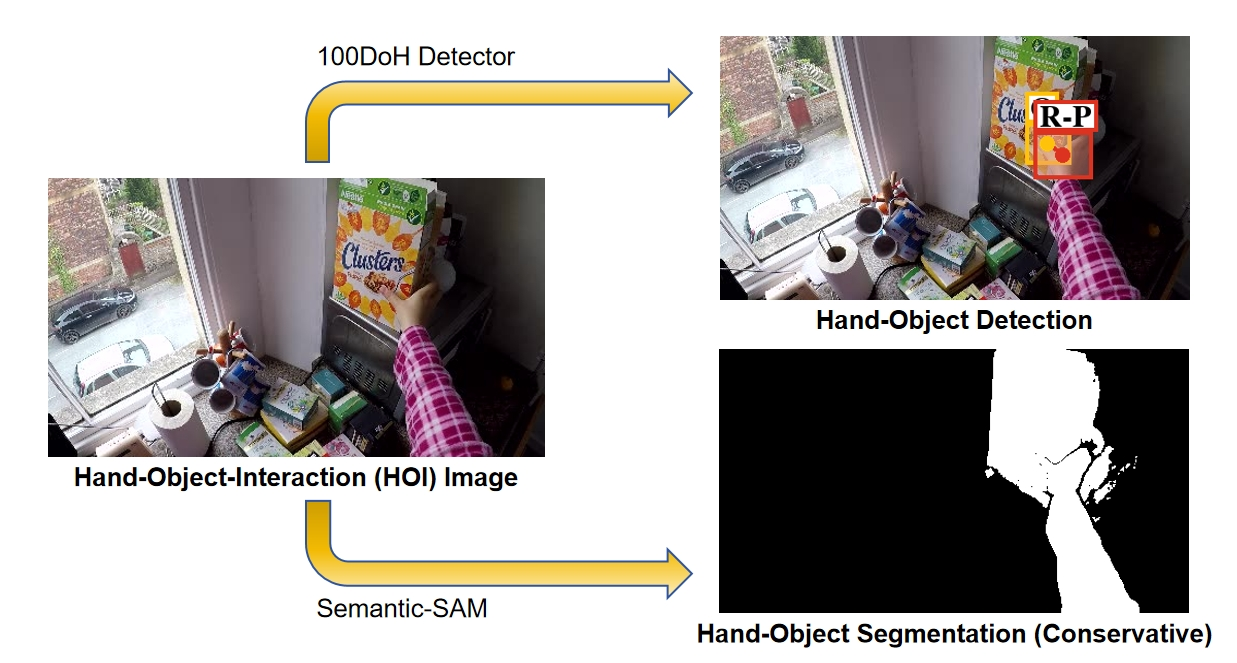
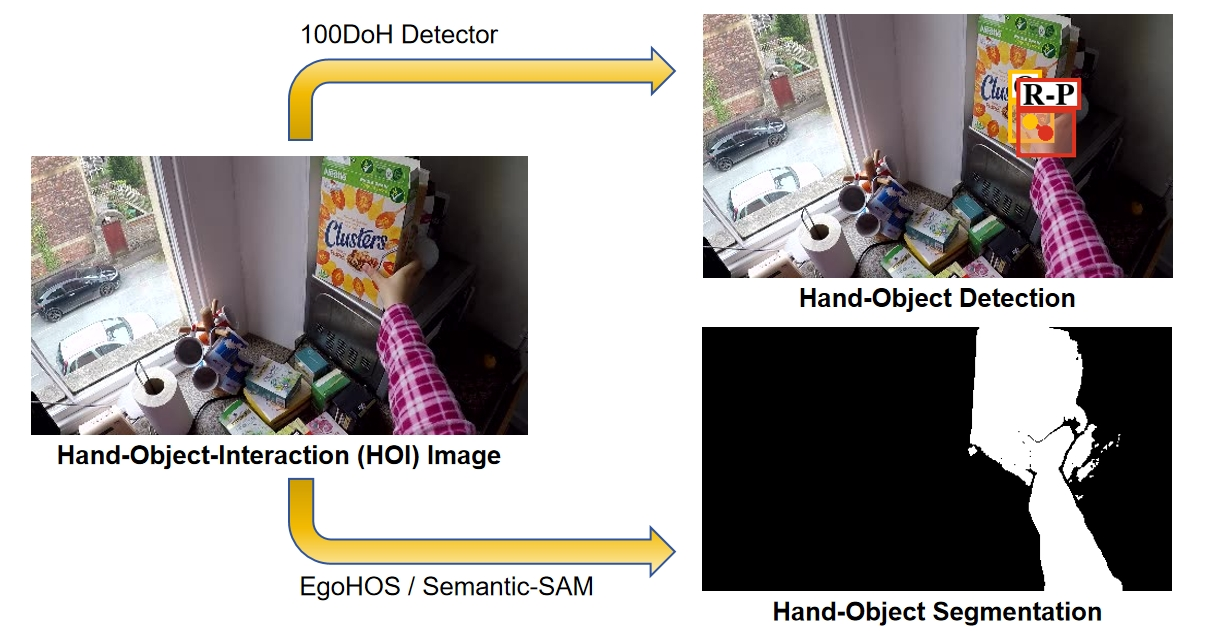
add egohos

Changed region(s): [[0.0, 0.0, 0.9984, 0.9937], [0.8112, 0.6624, 0.9048, 0.813], [0.78, 0.6926, 0.8112, 0.7227]]

diff --git a/ego_hos_wrapper.py b/ego_hos_wrapper.py
@@ -1,0 +1,125 @@
+from mmseg.apis import inference_segmentor, init_segmentor
+import mmcv
+import glob
+import os
+from tqdm import tqdm
+import argparse
+import copy
+import shutil
+from PIL import Image
+import numpy as np 
+from skimage.io import imsave
+import pdb
+
+def visualize_twohands(img, seg_result, alpha = 0.4):
+    seg_color = np.zeros((img.shape))
+    seg_color[seg_result == 0] = (0,    0,   0)     # background
+    seg_color[seg_result == 1] = (255,  0,   0)     # left_hand
+    seg_color[seg_result == 2] = (0,    0,   255)   # right_hand
+    vis = img * (1 - alpha) + seg_color * alpha
+    return vis
+
+def visualize_cb(img, seg_result, alpha = 0.4):
+    seg_color = np.zeros((img.shape))
+    seg_color[seg_result == 0] = (0,    0,   0)     # background
+    seg_color[seg_result == 1] = (255,  0,   0)     # contact 
+    vis = img * (1 - alpha) + seg_color * alpha
+    return vis
+
+def visualize_twohands_obj1(img, seg_result, alpha = 0.4):
+    seg_color = np.zeros((img.shape))
+    seg_color[seg_result == 0] = (0,    0,   0)     # background
+    seg_color[seg_result == 1] = (255,  0,   0)     # left_hand
+    seg_color[seg_result == 2] = (0,    0,   255)   # right_hand
+    seg_color[seg_result == 3] = (255,  0,   255)   # left_object1
+    seg_color[seg_result == 4] = (0,    255, 255)   # right_object1
+    seg_color[seg_result == 5] = (0,    255, 0)     # two_object1
+    vis = img * (1 - alpha) + seg_color * alpha
+    return vis
+
+def visualize_twohands_obj2(img, seg_result, alpha = 0.4):
+    seg_color = np.zeros((img.shape))
+    seg_color[seg_result == 0] = (0,    0,   0)     # background
+    seg_color[seg_result == 1] = (255,  0,   0)     # left_hand
+    seg_color[seg_result == 2] = (0,    0,   255)   # right_hand
+    seg_color[seg_result == 3] = (255,  0,   255)   # left_object1
+    seg_color[seg_result == 4] = (0,    255, 255)   # right_object1
+    seg_color[seg_result == 5] = (0,    255, 0)     # two_object1
+    seg_color[seg_result == 6] = (255,  204, 255)   # left_object2
+    seg_color[seg_result == 7] = (204,  255, 255)   # right_object2
+    seg_color[seg_result == 8] = (204,  255, 204)   # two_object2
+    vis = img * (1 - alpha) + seg_color * alpha
+    return vis
+
+
+
+class EgoHOSWrapper:
+
+    def __init__(self, 
+                 cache_path,
+                 repo_path='.',
+                 two_hands_cfg='EgoHOS/mmsegmentation/work_dirs/seg_twohands_ccda/seg_twohands_ccda.py',
+                 cb_cfg='EgoHOS/mmsegmentation/work_dirs/twohands_to_cb_ccda/twohands_to_cb_ccda.py',
+                 obj2_cfg='EgoHOS/mmsegmentation/work_dirs/twohands_cb_to_obj2_ccda/twohands_cb_to_obj2_ccda.py',
+                 two_hands_ckpt='EgoHOS/mmsegmentation/work_dirs/seg_twohands_ccda/best_mIoU_iter_56000.pth',
+                 cb_ckpt='EgoHOS/mmsegmentation/work_dirs/twohands_to_cb_ccda/best_mIoU_iter_76000.pth',
+                 obj2_ckpt='EgoHOS/mmsegmentation/work_dirs/twohands_cb_to_obj2_ccda/best_mIoU_iter_32000.pth',
+                 device='cuda'
+                 ):
+        if not cache_path.startswith('/'):
+            raise ValueError("Please use the absolute file path as the cache path.")
+        self.cache_path = cache_path
+        two_hands_cfg = repo_path + '/' + two_hands_cfg
+        cb_cfg = repo_path + '/' + cb_cfg
+        obj2_cfg  = repo_path + '/' + obj2_cfg
+        two_hands_ckpt = repo_path + '/' + two_hands_ckpt
+        cb_ckpt = repo_path + '/' + cb_ckpt
+        obj2_ckpt = repo_path + '/' + obj2_ckpt
+        self.two_hands_cfg = two_hands_cfg
+        self.two_hands_ckpt = two_hands_ckpt
+        self.cb_cfg = cb_cfg
+        self.cb_ckpt = cb_ckpt
+        self.obj2_cfg = obj2_cfg
+        self.obj2_ckpt = obj2_ckpt
+        self.device = device 
+
+        self.hand_model = init_segmentor(self.two_hands_cfg, self.two_hands_ckpt, device=device)
+        self.cb_model = init_segmentor(self.cb_cfg, self.cb_ckpt, device=device)
+        self.obj2_model = init_segmentor(self.obj2_cfg, self.obj2_ckpt, device=device)
+
+        self.test_images_fp = os.path.join(cache_path, "test_images")
+        self.pred_twohands_fp = os.path.join(cache_path, "pred_twohands")
+        self.pred_cb_fp = os.path.join(cache_path, "pred_cb")
+        os.makedirs(self.test_images_fp, exist_ok=True)
+        os.makedirs(self.pred_twohands_fp, exist_ok=True)
+        os.makedirs(self.pred_cb_fp, exist_ok=True)
+
+    def segment(self, image_fp, vis=False):
+
+        filename = image_fp.replace("/", "_").replace('.jpg', '.png').replace('.jpeg', '.png')
+        cache_fp = os.path.join(self.test_images_fp, filename)
+        shutil.copyfile(image_fp, cache_fp)
+
+        seg_hands = inference_segmentor(self.hand_model, cache_fp)[0]
+        imsave(os.path.join(self.pred_twohands_fp, filename), seg_hands.astype(np.uint8))
+        seg_cb = inference_segmentor(self.cb_model, cache_fp)[0]
+        imsave(os.path.join(self.pred_cb_fp, filename), seg_cb.astype(np.uint8))
+        seg_obj2 = inference_segmentor(self.obj2_model, cache_fp)[0]
+
+
+        os.remove(os.path.join(self.test_images_fp, filename))
+        os.remove(os.path.join(self.pred_twohands_fp, filename))
+        os.remove(os.path.join(self.pred_cb_fp, filename))
+
+        if vis is True:
+            img = np.array(Image.open(image_fp))
+            hand_vis = visualize_twohands(img, seg_hands)
+            imsave("vis_hands.png", hand_vis.astype(np.uint8))
+            cb_vis = visualize_cb(img, seg_cb)
+            imsave("vis_cb.png", cb_vis.astype(np.uint8))
+            obj2_vis = visualize_twohands_obj2(img, seg_obj2)
+            imsave("vis_obj2.png", obj2_vis.astype(np.uint8))
+
+        # pdb.set_trace()
+
+        return seg_obj2

diff --git a/demo.py b/demo.py
@@ -5,6 +5,7 @@ from PIL import Image
 
 from ego_hoi_segmentation import EgoHOISegmentation
 from ego_hoi_detection import EgoHOIDetection
+from ego_hos_wrapper import EgoHOSWrapper
 
 if __name__ == "__main__":
 
@@ -25,3 +26,8 @@ if __name__ == "__main__":
     # det_result: {'left': {'offset': array([ 0.03231527,  0.08044394, -0.05940348], dtype=float32), 'bbox_obj': array([239.67389, 161.16383, 288.72702, 205.0075 ], dtype=float32), 'bbox_hand': array([205.20311, 187.94205, 245.9829 , 242.21669], dtype=float32), 'confidence_hand': 0.99403363, 'state': 'P', 'state_explaination': 'Portable Object'}, 'right': {'offset': array([ 0.06348144, -0.02577479,  0.09662122], dtype=float32), 'bbox_obj': array([229.75223, 185.38179, 273.95844, 217.96408], dtype=float32), 'bbox_hand': array([263.487   ,  54.853817, 443.8651  , 240.19383 ], dtype=float32), 'confidence_hand': 7.680194e-06, 'state': 'P', 'state_explaination': 'Portable Object'}}
     # seg_result.keys() = dict_keys(['left_hand', 'left_obj', 'dynamic_area'])
     # seg_result['left_hand']: numpy, (h, w), np.bool_
+
+
+    ego_hos_wrapper = EgoHOSWrapper(cache_path="/home/ycb/dflowmap_project/dflowmap/dfm/hoi/cache",  # an absolute file-path
+                                    repo_path='../repo')
+    ego_hos_wrapper.segment(image_fp, vis=True)

diff --git a/README.md b/README.md
@@ -2,6 +2,22 @@
 
 ![cover](media/cover.png "teaser_pic")
 
+## Updatation (2024.07.14)
+
+I find that [EgoHOS](https://github.com/owenzlz/EgoHOS) produce better hand-object segmentation than [100DoH](https://github.com/ddshan/hand_object_detectorc) + [Semantic-SAM](https://github.com/UX-Decoder/Semantic-SAM) pipeline. I have also provide a wrapper of EgoHOS in ``ego_hos_wrapper.py``.
+
+First install EgoHOS from the official repository, than run the code below for segmentation:
+
+```python
+from ego_hos_wrapper import EgoHOSWrapper
+base_fp = "image.jpg"
+ego_hos_wrapper = EgoHOSWrapper(cache_path="/home/ycb/dflowmap_project/dflowmap/dfm/hoi/cache",  # an absolute file-path for caching
+                                repo_path='../repo')
+seg_hands, seg_obj2, seg_cb = ego_hos_wrapper.segment(image_fp, vis=True)  # "cb" is contact boundary
+```
+
+![cover](media/egohos.png "egohos")
+
 ## Introduction
 
 This repository is a pipeline for hand object interaction (HOI) analysis, which includes: 
@@ -47,7 +63,7 @@ cd ops
 
 ## Egocentric Hand & Object Detection
 
-![detection](media/detection.png "teaser_pic")
+![detection](media/detection.png "detection")
 
 Run the following code as demo:
 
@@ -78,7 +94,7 @@ The visualization result will be saved in ``vis_det.png``. Check out [100DoH](ht
 
 ## Egocentric Hand & Object & Dynamic-Area Segmentation (Conservative)
 
-![segmentation](media/segmentation.png "teaser_pic")
+![segmentation](media/segmentation.png "segmentation")
 
 Run the following code as demo:
 
